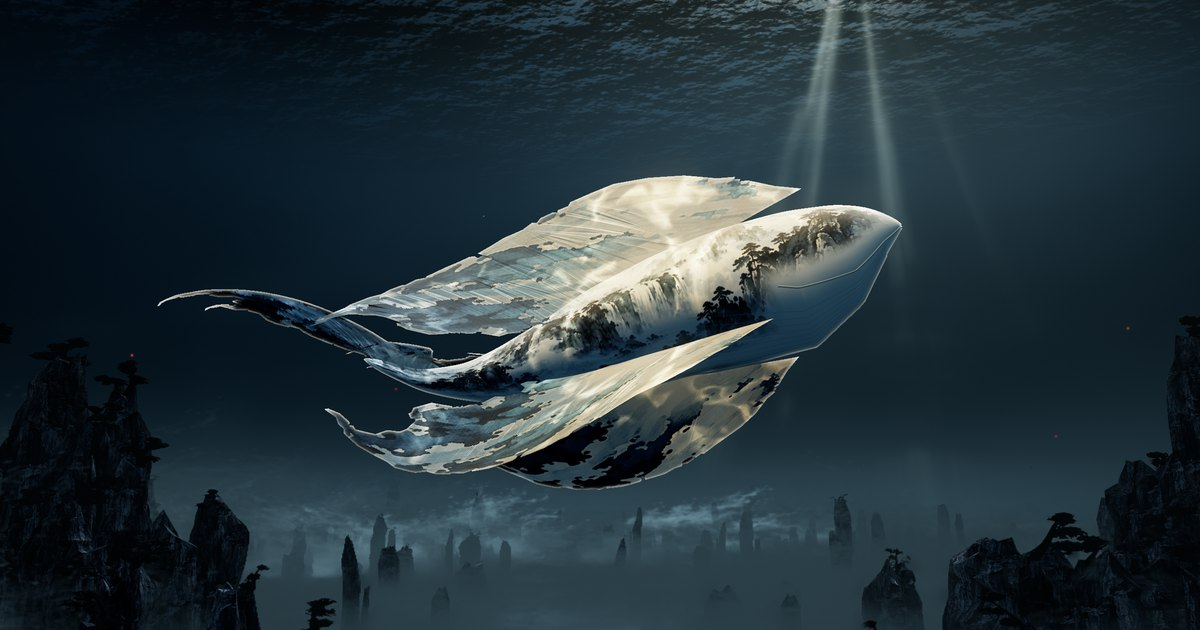
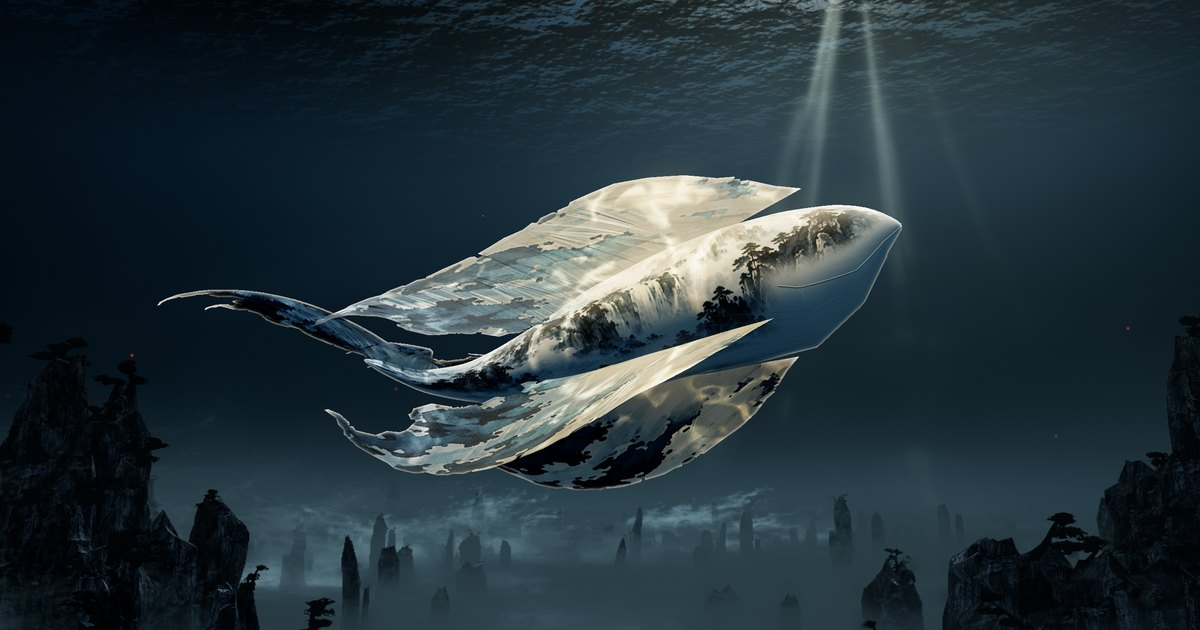
xiaoyaoyou: M4 small spires add a far layer to the opening; shorter rays on tall frames; brighter surface light

diff --git a/games/xiaoyaoyou/src/world.js b/games/xiaoyaoyou/src/world.js
@@ -165,7 +165,7 @@ function domeMaterial(shared) {
         // The water column stays dark almost to the surface, lifting only around the light.
         vec3 c=mix(uAbyss*.3,uDeep*.62,smoothstep(-.4,.04,up));
         c=mix(c,uDeep*1.12,smoothstep(.05,.62,up));
-        c+=uSea*pow(sun,4.)*.5+uHaze*pow(sun,14.)*.42+uShaft*pow(sun,60.)*.34;
+        c+=uSea*pow(sun,4.)*.5+uHaze*pow(sun,14.)*.42+uShaft*pow(sun,34.)*.62;
         float murk=texture2D(tGobo,ray.xz*.42/(abs(up)+.55)+uTime*.0016).b;
         c*=.8+.4*murk;
         // Far water pales into a band of haze behind the stone. Its height is uneven, so it
@@ -234,6 +234,16 @@ function placements() {
     if (cluster < -.32 || !separated(x, z, hero, 120) || !separated(x, z, field.slice(-150), 62) || Math.hypot(x - open.x, z - open.z) < 150) continue;
     field.push({ kind: field.length % 5, x, z, rotation: random() * 6.28, scale: .6 + random() * .75, stretch: .7 + random() * .5, sink: 40 + random() * 46 });
   }
+  // Small spires inside the ring read as distance in the opening shot, as they do in the key
+  // art. They draw on their own stream, so the composed layout above never moves.
+  const small = mulberry(31337);
+  for (let tries = 0, added = 0; added < 110 && tries < 6000; tries++) {
+    const radius = 120 + small() * 300, angle = small() * Math.PI * 2;
+    const x = Math.sin(angle) * radius, z = Math.cos(angle) * radius;
+    if (!separated(x, z, hero, 70) || !separated(x, z, field, 44) || Math.hypot(x - open.x, z - open.z) < 200) continue;
+    field.push({ kind: field.length % 5, x, z, rotation: small() * 6.28, scale: .2 + small() * .26, stretch: .7 + small() * .5, sink: 16, small: true });
+    added++;
+  }
   return { hero, field };
 }
 
@@ -294,8 +304,8 @@ export function createWorld(seaRoot, gobo, rockTexture) {
     return mesh;
   };
   const heroBatches = heroGeometry.map(geometry => batch(geometry, layout.hero.length));
-  const farBatches = farGeometry.map(geometry => batch(geometry, 160));
-  const deepBatches = deepGeometry.map(geometry => batch(geometry, 220));
+  const farBatches = farGeometry.map(geometry => batch(geometry, 200));
+  const deepBatches = deepGeometry.map(geometry => batch(geometry, 300));
   const cliffBatches = cliffGeometry.map(geometry => batch(geometry, 4));
   const batches = [...heroBatches, ...farBatches, ...deepBatches, ...cliffBatches];
   for (const item of [...layout.hero, ...layout.field]) item.matrix = composed(item);
@@ -367,8 +377,10 @@ export function createWorld(seaRoot, gobo, rockTexture) {
       if (d >= 0) put(d < detail * 1.5 ? heroBatches[item.kind] : farBatches[item.kind % 5], item);
     }
     for (const item of layout.field) {
+      // Once Kun has outgrown them, the small spires are too small to see.
+      if (item.small && scale > 3) continue;
       const d = seen(item);
-      if (d >= 0) put(d < detail ? farBatches[item.kind] : deepBatches[item.kind], item);
+      if (d >= 0) put(d < detail && !item.small ? farBatches[item.kind] : deepBatches[item.kind], item);
     }
     for (const item of stages[0]) if (seen(item) >= 0) put(cliffBatches[item.kind], item);
     if (finaleOn) for (const item of stages[1]) put(cliffBatches[item.kind], item);

diff --git a/games/xiaoyaoyou/src/post.js b/games/xiaoyaoyou/src/post.js
@@ -172,7 +172,7 @@ void main(){
   // the fan never reads as even stripes.
   float below=max(1.-vUv.y-.02,0.);
   // A tall frame shows more water, so the same rays end sooner in it.
-  float tall=mix(.62,1.,clamp((uAspect-.5)/.9,0.,1.));
+  float tall=mix(.46,1.,clamp((uAspect-.5)/.9,0.,1.));
   float rays=0.;
   for(int i=0;i<RAYS;i++){
     vec4 r=uRays[i];
